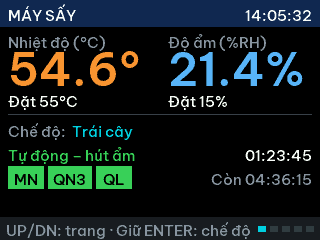
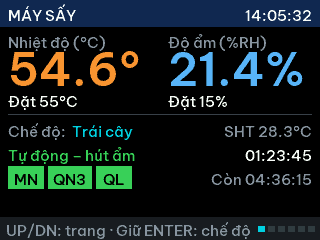
feat(ui): hiện nhiệt độ đo tại cảm biến ẩm SHT ở trang chính
- dòng "Chế độ" bên phải: "SHT 28.3°C" (chỉ tham khảo, điều khiển vẫn dùng PT100)
- ẩn khi cảm biến ẩm không đọc được

Claude-Session: https://claude.ai/code/session_017fUgYe1KjDaqZScqSxtEce

Changed region(s): [[0.6875, 0.525, 0.9688, 0.5833], [0.8125, 0.9333, 0.9688, 0.9625]]

diff --git a/App/ui/ui_page_main.c b/App/ui/ui_page_main.c
@@ -7,7 +7,7 @@
  *   │ 54.6°C              21.4%          │  (số lớn)
  *   │ Đặt 55°C            Đặt 15%        │
  *   │ ─────────────────────────────────  │
- *   │ Chế độ: Trái cây                   │
+ *   │ Chế độ: Trái cây         SHT 28.3°C│  (nhiệt độ tại cảm biến ẩm)
  *   │ Đang sấy            Đã sấy 01:23:45│
  *   │ [MN][QN][QL]        Còn    04:36:15│
  *   │ Lỗi / cảnh báo                     │
@@ -26,6 +26,7 @@
 #define Y_STATE  142
 #define Y_RELAY  166
 #define Y_ALARM  192
+#define X_SHT    222          /* nhiệt độ SHT bên phải dòng chế độ */
 #define X_TIME   180          /* cột thời gian bên phải */
 #define W_TIME   (TFT_WIDTH - 8 - X_TIME)
 
@@ -51,6 +52,11 @@ static void draw_values(bool full)
     snprintf(a, sizeof(a), "%s%%", b);
     w_num(COL_R, Y_BIG, COL_W, a, v->hum_ok ? (v->hum_reached ? UC_OK : UC_HUM) : UC_LABEL, UC_BG, TEXT_LEFT);
 
+    /* nhiệt độ tại cảm biến ẩm SHT (tham khảo, không dùng để điều khiển) */
+    if (v->hum_temp_ok) snprintf(a, sizeof(a), "SHT %s°C", Fmt_Float(b, sizeof(b), v->hum_temp, 1));
+    else                a[0] = '\0';
+    w_text(X_SHT, Y_MODE, TFT_WIDTH - 8 - X_SHT, a, UC_LABEL, UC_BG, TEXT_RIGHT);
+
     /* điểm đặt */
     snprintf(a, sizeof(a), "Đặt %s°C", Fmt_Float(b, sizeof(b), v->temp_set, 0));
     w_text(COL_L, Y_SET, COL_W, a, UC_VALUE, UC_BG, TEXT_LEFT);
@@ -59,7 +65,7 @@ static void draw_values(bool full)
 
     /* chế độ */
     const char *name = (v->preset < g_ui.cfg->preset_count) ? g_ui.cfg->preset_names[v->preset] : "?";
-    w_text(COL_L + 64, Y_MODE, TFT_WIDTH - 8 - (COL_L + 64), name, UC_ACCENT, UC_BG, TEXT_LEFT);
+    w_text(COL_L + 64, Y_MODE, X_SHT - (COL_L + 64), name, UC_ACCENT, UC_BG, TEXT_LEFT);
 
     /* trạng thái / giai đoạn + thời gian đã sấy */
     bool running = (v->state == UI_ST_RUNNING || v->state == UI_ST_STARTING);

diff --git a/tools/host_check/ui_sim/sim_main.c b/tools/host_check/ui_sim/sim_main.c
@@ -98,6 +98,7 @@ int main(int argc, char **argv)
     v.auto_fan = 3; v.stage_fan[0] = 4; v.stage_fan[1] = 3; v.stage_fan[2] = 2; v.stage_fan[3] = 1; v.stage_fan[4] = 5;
     v.gd3_min = 120; v.gd4_min = 60; v.end_temp = 40; v.temp_max = 75; v.comp_restart_s = 60;
     v.run_s = 5025; v.dry_time_min = 360;
+    v.hum_temp_ok = true; v.hum_temp = 28.3f;
     v.clock_ok = true; v.year = 2026; v.mon = 9; v.day = 27; v.hour = 14; v.min = 5; v.sec = 32;
     v.hist_count = 3;
     strcpy(v.hist[0].when, "27/09 09:12"); v.hist[0].text = "Áp suất cao";

diff --git a/App/app.c b/App/app.c
@@ -447,6 +447,8 @@ static void build_view(ui_view_t *v)
     *v = (ui_view_t){0};
     v->temp_ok  = m.t_ok; v->temp  = m.t;
     v->hum_ok   = m.h_ok; v->hum   = m.h;
+    v->hum_temp_ok = Sensors_Data()->hum_temp.ok;
+    v->hum_temp    = Sensors_Data()->hum_temp.value;
     v->press_ok = m.p_ok; v->press = m.p;
     v->sim_text = (s_sim.mode != SIM_OFF) ? s_sim.text : NULL;
 

diff --git a/App/ui/ui.h b/App/ui/ui.h
@@ -76,6 +76,7 @@ typedef struct {
     /* đo */
     bool  temp_ok;  float temp;
     bool  hum_ok;   float hum;
+    bool  hum_temp_ok; float hum_temp;       /* nhiệt độ đo tại cảm biến ẩm SHT (tham khảo) */
     bool  press_ok; float press;
     /* điểm đặt & chế độ */
     float   temp_set, hum_set;
